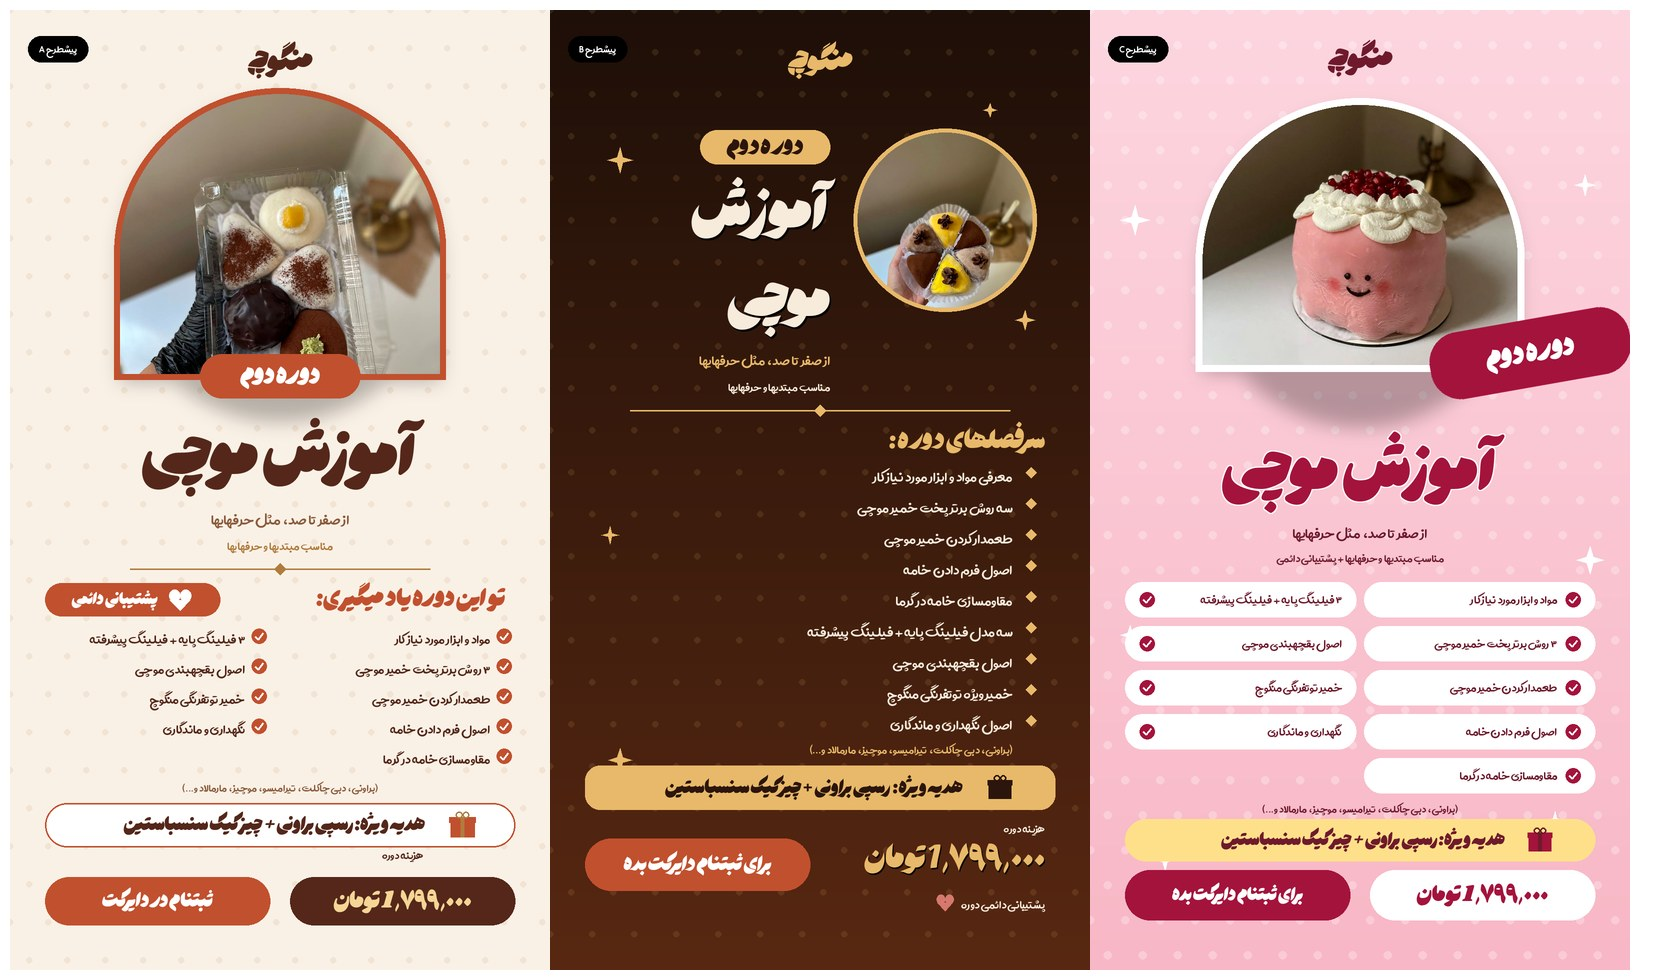
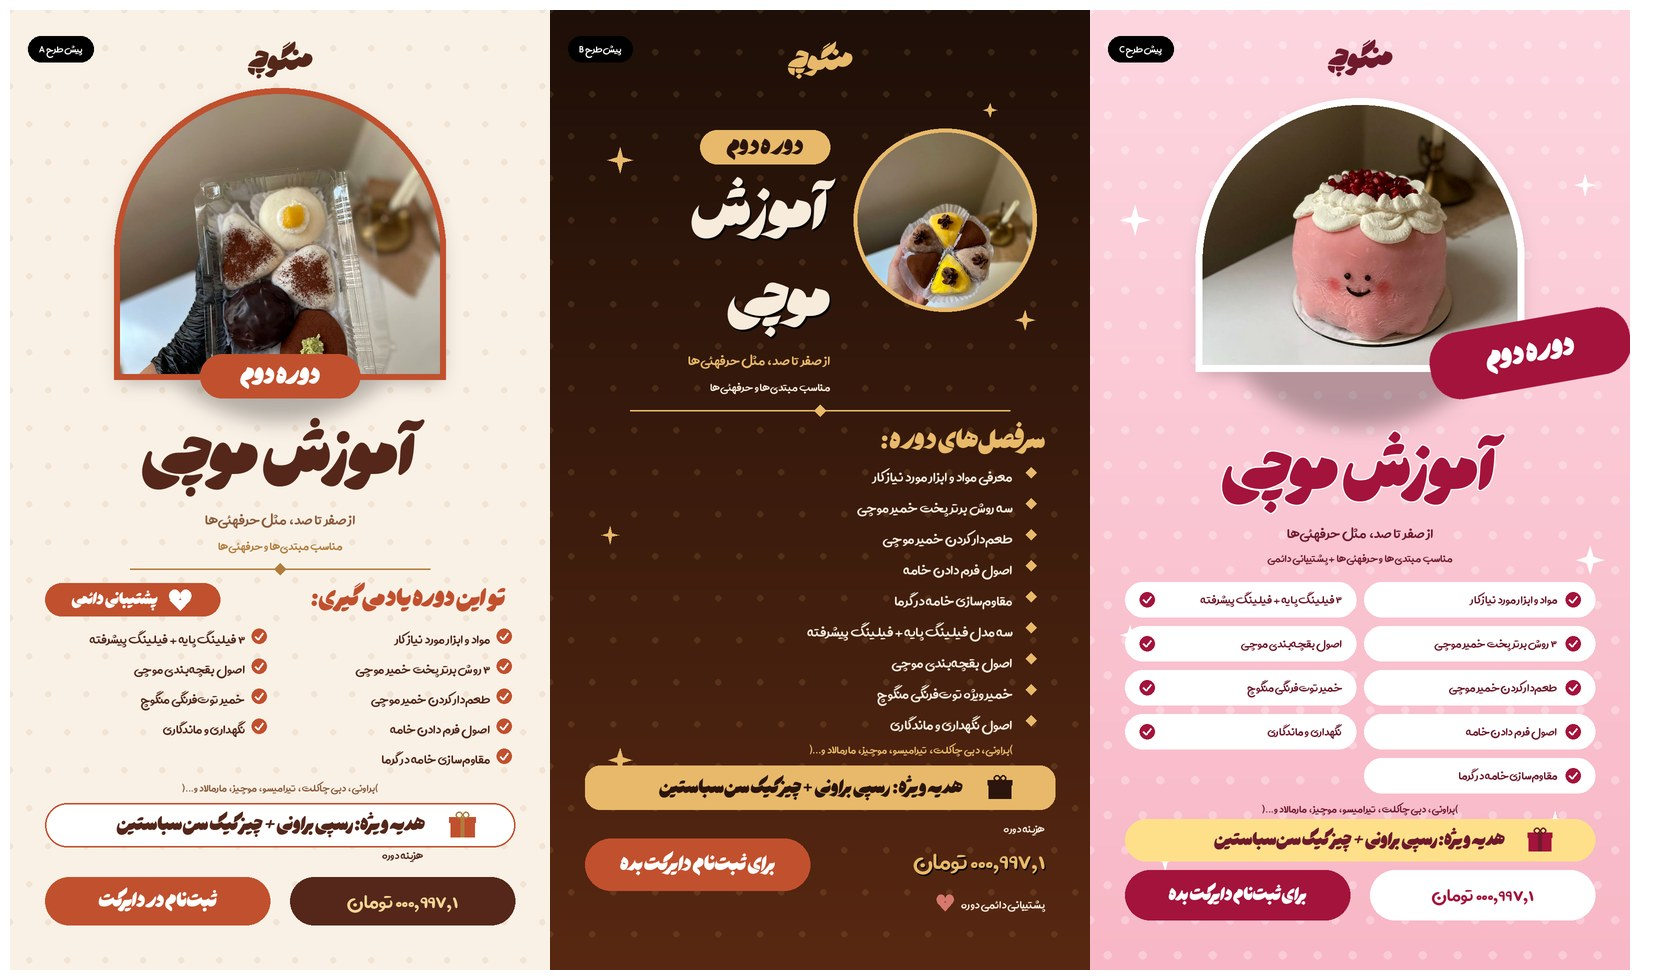
Fix ZWNJ shaping: shape RTL text in logical order (was: visual+Ltr broke joining); re-render all stories

diff --git a/design/fatext.py b/design/fatext.py
@@ -1,11 +1,32 @@
 # -*- coding: utf-8 -*-
 """Persian text shaping engine: uharfbuzz (shaping) + freetype-py (raster) + PIL (composite).
 Works with fonts that lack Arabic Presentation Forms (e.g. Hasti).
+
+Key correctness notes:
+- Pure-RTL text is shaped in LOGICAL order with direction=rtl (HarfBuzz outputs
+  visual order). Feeding visual-order text with direction=ltr breaks joining
+  around ZWNJ, so that trick must NOT be used for RTL text.
+- python-bidi's get_display() drops U+200C (ZWNJ), so it is only used for
+  mixed-direction text (Latin inside Persian), with ZWNJ smuggled as NBSP.
+- Bracket mirroring (bidi function, not shaping) is applied manually on the
+  rtl-direct path.
 """
 import uharfbuzz as hb
 import freetype
 from bidi.algorithm import get_display
 from PIL import Image
+
+_MIRROR = {0x28: 0x29, 0x29: 0x28, 0x5B: 0x5D, 0x5D: 0x5B, 0x7B: 0x7D, 0x7D: 0x7B,
+           0xAB: 0xBB, 0xBB: 0xAB, 0x2039: 0x203A, 0x203A: 0x2039,
+           0x3C: 0x3E, 0x3E: 0x3C}
+
+
+def _has_ltr(text):
+    return any("A" <= c <= "Z" or "a" <= c <= "z" for c in text)
+
+
+def _has_rtl(text):
+    return any("\u0590" <= c <= "\u08ff" for c in text)  # U+0590..U+08FF
 
 
 class FaFont:
@@ -26,12 +47,27 @@ class FaFont:
 
     def shape(self, text):
         """Return (glyphs, width_px). glyphs = list of (gid, x_offset, y_offset, x_advance)."""
-        visual = get_display(text)
+        has_ltr = _has_ltr(text)
+        has_rtl = _has_rtl(text)
         buf = hb.Buffer()
-        buf.add_str(visual)
-        buf.direction = "ltr"
-        buf.script = "arab"
-        buf.language = "fa"
+        if has_rtl and not has_ltr:
+            # Pure RTL: logical order + rtl direction (+ manual bracket mirror).
+            buf.add_str(text.translate(_MIRROR))
+            buf.direction = "rtl"
+            buf.script = "arab"
+            buf.language = "fa"
+        elif has_ltr and not has_rtl:
+            buf.add_str(text)
+            buf.direction = "ltr"
+            buf.script = "latn"
+            buf.language = "en"
+        else:
+            # Mixed-direction: bidi reorder; smuggle ZWNJ through NBSP (bidi drops it).
+            visual = get_display(text.replace("", " ")).replace(" ", "")
+            buf.add_str(visual)
+            buf.direction = "ltr"
+            buf.script = "arab"
+            buf.language = "fa"
         hb.shape(self._hbfont, buf, {"kern": True, "liga": True})
         glyphs = []
         for info, pos in zip(buf.glyph_infos, buf.glyph_positions):
